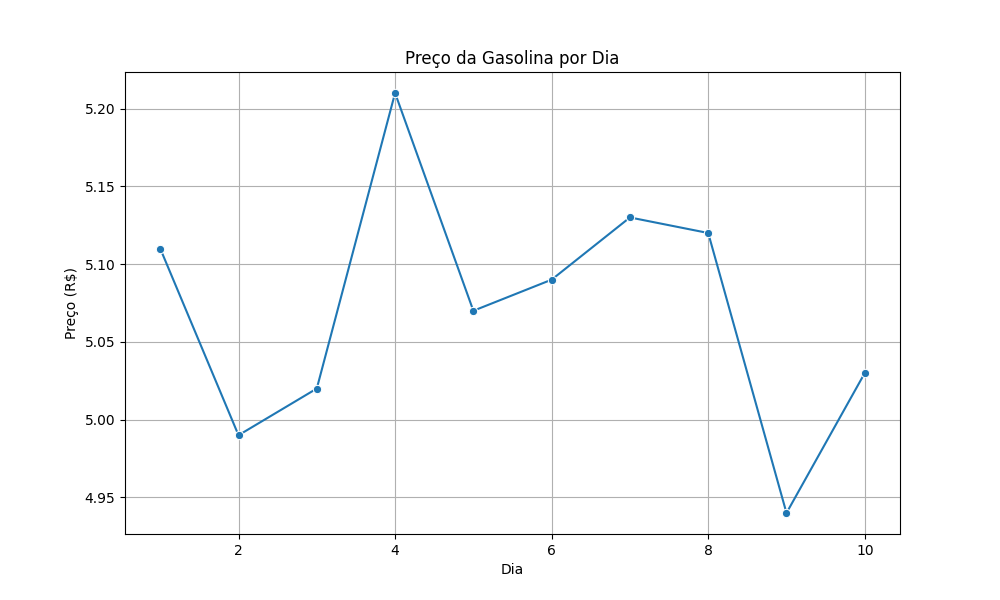
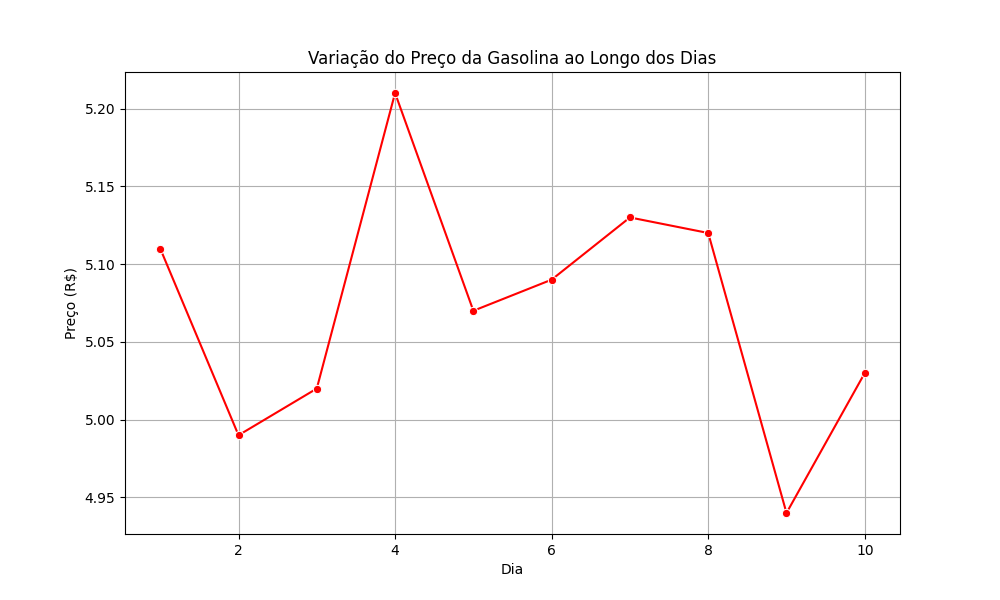
Atualizar título do gráfico na develop

diff --git a/gasolina.py b/gasolina.py
@@ -6,12 +6,12 @@ import matplotlib.pyplot as plt
 # Leitura do arquivo CSV
 df = pd.read_csv("gasolina.csv")
 
-# Criação do gráfico de linha
+# Criação do gráfico de linha com cor vermelha
 plt.figure(figsize=(10, 6))
-sns.lineplot(data=df, x="dia", y="venda", marker="o")
+sns.lineplot(data=df, x="dia", y="venda", marker="o", color="red")
 
 # Títulos e rótulos
-plt.title("Preço da Gasolina por Dia")
+plt.title("Variação do Preço da Gasolina ao Longo dos Dias")
 plt.xlabel("Dia")
 plt.ylabel("Preço (R$)")
 plt.grid(True)
